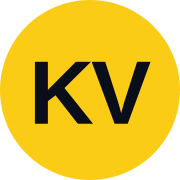
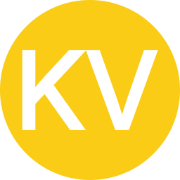
auto-commit for 70f342fa-38a9-49b6-8c48-3af7a994006b

Changed region(s): [[0.1111, 0.2778, 0.8889, 0.7222]]

diff --git a/frontend/app/layout.tsx b/frontend/app/layout.tsx
@@ -28,6 +28,7 @@ export const metadata: Metadata = {
     type: "website",
   },
   robots: { index: true, follow: true },
+  manifest: "/site.webmanifest",
 };
 
 export const viewport: Viewport = {